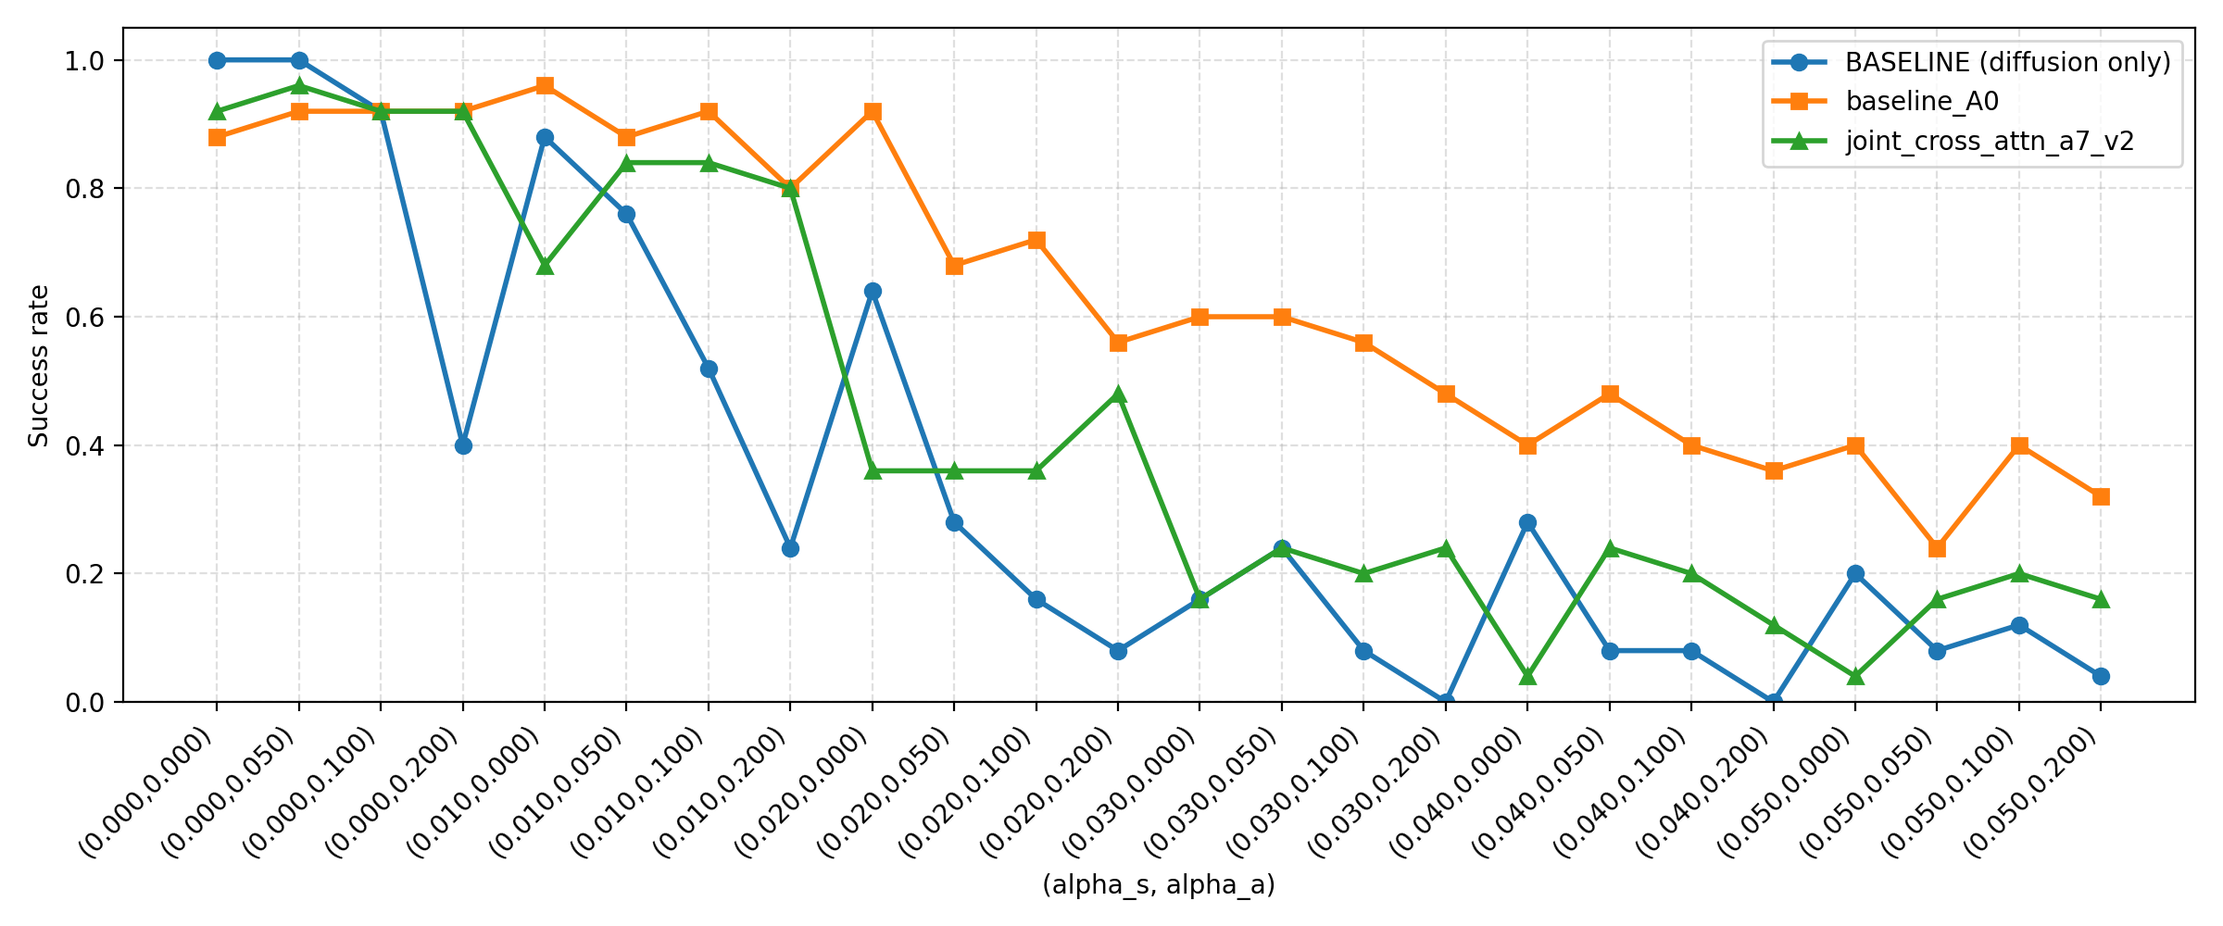
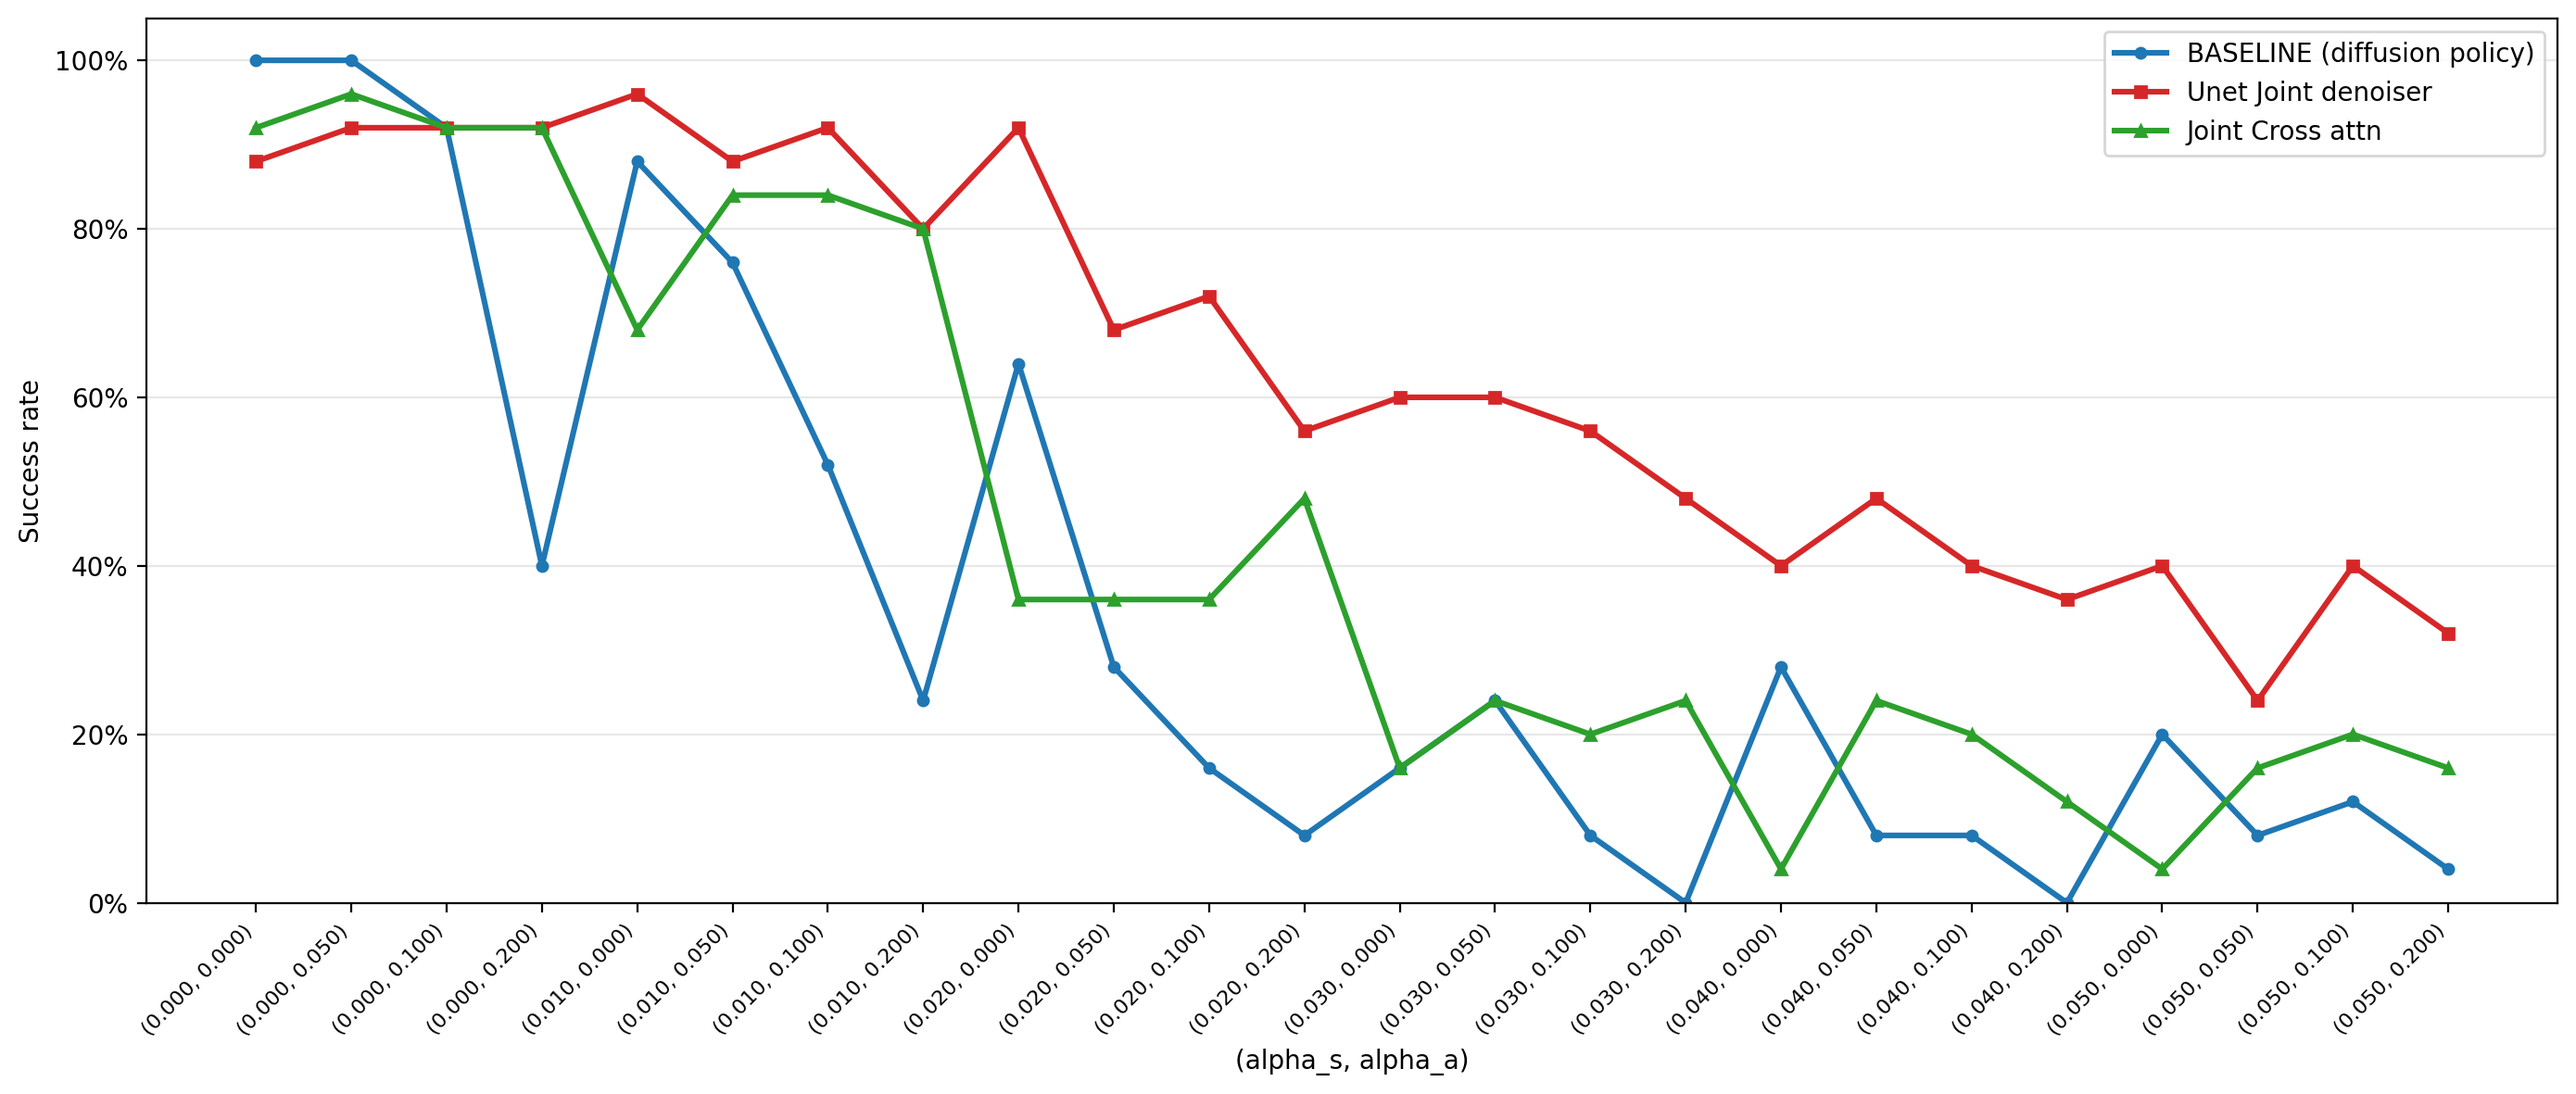
cross attention experiments done

diff --git a/evaluation/eval_diffusion_joint_denoiser_can.py b/evaluation/eval_diffusion_joint_denoiser_can.py
@@ -104,13 +104,24 @@ def _load_joint_model(ckpt_path: str, device):
     T = ckpt["diffusion_steps"]
     anchor_id = ckpt["anchor_id"]
 
-    model = JointUNet1D(
-        state_dim=state_dim,
-        action_dim=action_dim,
-        anchor_dim=ckpt.get("anchor_dim", 128),
-        time_emb_dim=ckpt.get("time_emb_dim", 128),
-        channel_sizes=ckpt.get("channel_sizes", (64, 128, 256)),
-    )
+    if ckpt.get("arch") == "cross_attn":
+        from diffusion.joint_cross_attn import CrossAttnJointDenoiser
+        model = CrossAttnJointDenoiser(
+            state_dim=state_dim,
+            action_dim=action_dim,
+            anchor_dim=ckpt.get("anchor_dim", 128),
+            d_model=ckpt.get("d_model", 192),
+            n_heads=ckpt.get("n_heads", 6),
+            n_layers=ckpt.get("n_layers", 4),
+        )
+    else:
+        model = JointUNet1D(
+            state_dim=state_dim,
+            action_dim=action_dim,
+            anchor_dim=ckpt.get("anchor_dim", 128),
+            time_emb_dim=ckpt.get("time_emb_dim", 128),
+            channel_sizes=ckpt.get("channel_sizes", (64, 128, 256)),
+        )
     model.load_state_dict(ckpt["model_state_dict"])
     model.eval().to(device)
 
@@ -197,6 +208,7 @@ def _run_rollout_with_denoiser(
 ) -> bool:
     import torch
     from diffusion.joint_unet import joint_denoise
+    from diffusion.joint_cross_attn import cross_attn_joint_denoise, CrossAttnJointDenoiser
 
     if sample_fn is None:
         sample_fn = sample_action_sequence
@@ -299,7 +311,12 @@ def _run_rollout_with_denoiser(
 
             with torch.no_grad():
                 anchor_emb = joint_anchor.compute(traj)
-                _, clean_a = joint_denoise(
+                _denoise_fn = (
+                    cross_attn_joint_denoise
+                    if isinstance(joint_model, CrossAttnJointDenoiser)
+                    else joint_denoise
+                )
+                _, clean_a = _denoise_fn(
                     joint_model,
                     s_t,
                     a_t,
@@ -480,7 +497,8 @@ def parse_args():
     parser.add_argument("--horizon", type=int, default=400, help="Episode horizon")
     parser.add_argument("--seed", type=int, default=0, help="Random seed")
     parser.add_argument("--t_start", type=int, default=None, help="Diffusion t_start parameter")
-    parser.add_argument("--joint_t_start", type=int, default=10, help="Joint denoiser reverse-diffusion start step (default 10)")
+    parser.add_argument("--joint_t_start", type=int, nargs="+", default=[10],
+                        help="Joint denoiser reverse-diffusion start step(s). Multiple values sweep t_start per cell (default: 10)")
     parser.add_argument("--output_csv", type=str, required=True, help="Output CSV path")
     return parser.parse_args()
 
@@ -550,7 +568,11 @@ def main():
         print(f"Warning: No joint denoiser models found — running baseline only.")
 
     results = {}
-    col_names = ["BASELINE (diffusion only)"] + list(joint_models.keys())
+    joint_t_starts = args.joint_t_start
+    col_names = (
+        ["BASELINE (diffusion only)"]
+        + [f"{k}_t{ts}" for k in sorted(joint_models.keys()) for ts in joint_t_starts]
+    )
 
     print("\n" + "=" * 90)
     print("EVALUATION")
@@ -573,36 +595,37 @@ def main():
                 diffusion_alphas, diffusion_alphas_bar,
                 env, args.horizon, args.seed, args.n_rollouts, args.t_start,
                 alpha_s, alpha_a, exec_horizon=args.exec_horizon,
-                joint_t_start=args.joint_t_start,
                 sample_fn=sample_fn,
             )
             results[key]["BASELINE (diffusion only)"] = sr_baseline
             print(f"success_rate={sr_baseline:.4f}")
 
             for model_key, model_path in sorted(joint_models.items()):
-                print(f"  {model_key}...", end=" ", flush=True)
                 try:
                     jm, ja, ja_alphas, ja_alphas_bar, ja_norm, ja_h, ja_s_dim, ja_a_dim, ja_obs_keys = \
                         _load_joint_model(model_path, device)
-
-                    sr = _eval_condition(
-                        diffusion_model, diffusion_checkpoint_dict,
-                        diffusion_alphas, diffusion_alphas_bar,
-                        env, args.horizon, args.seed, args.n_rollouts, args.t_start,
-                        alpha_s, alpha_a, exec_horizon=args.exec_horizon,
-                        joint_t_start=args.joint_t_start,
-                        joint_model=jm, joint_anchor=ja,
-                        joint_alphas=ja_alphas, joint_alphas_bar=ja_alphas_bar,
-                        joint_norm=ja_norm, joint_horizon=ja_h,
-                        joint_state_dim=ja_s_dim, joint_action_dim=ja_a_dim,
-                        joint_obs_keys=ja_obs_keys,
-                        sample_fn=sample_fn,
-                    )
-                    results[key][model_key] = sr
-                    print(f"success_rate={sr:.4f}")
+                    for ts in joint_t_starts:
+                        col_key = f"{model_key}_t{ts}"
+                        print(f"  {col_key}...", end=" ", flush=True)
+                        sr = _eval_condition(
+                            diffusion_model, diffusion_checkpoint_dict,
+                            diffusion_alphas, diffusion_alphas_bar,
+                            env, args.horizon, args.seed, args.n_rollouts, args.t_start,
+                            alpha_s, alpha_a, exec_horizon=args.exec_horizon,
+                            joint_t_start=ts,
+                            joint_model=jm, joint_anchor=ja,
+                            joint_alphas=ja_alphas, joint_alphas_bar=ja_alphas_bar,
+                            joint_norm=ja_norm, joint_horizon=ja_h,
+                            joint_state_dim=ja_s_dim, joint_action_dim=ja_a_dim,
+                            joint_obs_keys=ja_obs_keys,
+                            sample_fn=sample_fn,
+                        )
+                        results[key][col_key] = sr
+                        print(f"success_rate={sr:.4f}")
                 except Exception as e:
-                    print(f"ERROR: {e}")
-                    results[key][model_key] = None
+                    print(f"ERROR loading {model_key}: {e}")
+                    for ts in joint_t_starts:
+                        results[key][f"{model_key}_t{ts}"] = None
 
     os.makedirs(os.path.dirname(os.path.abspath(args.output_csv)), exist_ok=True)
     with open(args.output_csv, "w", newline="") as f:

diff --git a/results/lift/diffusion_joint_denoiser/regenerate_cross_attn_a7_v2_combined.py b/results/lift/diffusion_joint_denoiser/regenerate_cross_attn_a7_v2_combined.py
@@ -1,0 +1,83 @@
+import os
+import pandas as pd
+import matplotlib.pyplot as plt
+import matplotlib.ticker as mticker
+
+DATA_DIR = os.path.dirname(os.path.abspath(__file__))
+
+CSV_MAIN = os.path.join(DATA_DIR, "cross_attn_a7_v2.csv")
+CSV_QUICK = os.path.join(DATA_DIR, "quick_eval.csv")
+OUT_PNG = os.path.join(DATA_DIR, "cross_attn_a7_v2_combined_plot.png")
+
+
+def main():
+    a = pd.read_csv(CSV_MAIN)
+    b = pd.read_csv(CSV_QUICK)
+
+    # merge to ensure consistent ordering and presence of baseline_A0
+    merged = a.merge(
+        b[["alpha_s", "alpha_a", "baseline_A0"]],
+        on=["alpha_s", "alpha_a"],
+        how="left",
+    )
+
+    # Columns we will plot
+    col_baseline = "BASELINE (diffusion only)"
+    col_unet = "baseline_A0"
+    col_cross = "joint_cross_attn_a7_v2"
+
+    if col_cross not in merged.columns:
+        raise RuntimeError(f"Expected column missing: {col_cross}")
+
+    x_labels = [f"({row.alpha_s:.3f}, {row.alpha_a:.3f})" for _, row in merged.iterrows()]
+    x = range(len(merged))
+
+    plt.figure(figsize=(14, 6))
+
+    plt.plot(
+        x,
+        merged[col_baseline].values,
+        label="BASELINE (diffusion policy)",
+        color="#1f77b4",
+        linewidth=2.2,
+        marker="o",
+        markersize=4,
+    )
+
+    if col_unet in merged.columns:
+        plt.plot(
+            x,
+            merged[col_unet].values,
+            label="Unet Joint denoiser",
+            color="#d62728",
+            linewidth=2.2,
+            marker="s",
+            markersize=4,
+        )
+    else:
+        print(f"Warning: column {col_unet} not found; skipping Unet series")
+
+    plt.plot(
+        x,
+        merged[col_cross].values,
+        label="Joint Cross attn",
+        color="#2ca02c",
+        linewidth=2.2,
+        marker="^",
+        markersize=4,
+    )
+
+    plt.xticks(list(x), x_labels, rotation=45, ha="right", fontsize=8)
+    plt.xlabel("(alpha_s, alpha_a)")
+    plt.ylabel("Success rate")
+    plt.gca().yaxis.set_major_formatter(mticker.PercentFormatter(xmax=1.0))
+    plt.ylim(0.0, 1.05)
+    plt.grid(axis="y", alpha=0.3)
+    plt.legend()
+    plt.tight_layout()
+    plt.savefig(OUT_PNG, dpi=200, bbox_inches="tight")
+    print(f"Saved: {OUT_PNG}")
+
+
+if __name__ == "__main__":
+    main()

diff --git a/results/can/diffusion_joint_denoiser/plot_cross_attn_vs_unet_can.py b/results/can/diffusion_joint_denoiser/plot_cross_attn_vs_unet_can.py
@@ -1,0 +1,42 @@
+import os
+import pandas as pd
+import matplotlib.pyplot as plt
+import matplotlib.ticker as mticker
+
+DATA_DIR = os.path.dirname(os.path.abspath(__file__))
+CSV_PATH = os.path.join(DATA_DIR, "cross_attn_vs_unet_can.csv")
+OUT_PNG = os.path.join(DATA_DIR, "cross_attn_vs_unet_can_plot.png")
+
+
+def main():
+    df = pd.read_csv(CSV_PATH)
+    # Columns
+    col_x1 = 'alpha_s'
+    col_x2 = 'alpha_a'
+    col_baseline = 'BASELINE (diffusion only)'
+    col_unet = 'joint_all_three_a0_t5'
+    col_cross = 'joint_cross_attn_can_a0_aux_t5'
+
+    labels = [f"({row[col_x1]:.3f}, {row[col_x2]:.3f})" for _, row in df.iterrows()]
+    x = range(len(df))
+
+    plt.figure(figsize=(12, 6))
+
+    plt.plot(x, df[col_baseline].values, label='BASELINE (diffusion policy)', color='#1f77b4', marker='o')
+    plt.plot(x, df[col_unet].values, label='Unet Joint Denoiser', color='#d62728', marker='s')
+    plt.plot(x, df[col_cross].values, label='Joint cross attn', color='#2ca02c', marker='^')
+
+    plt.xticks(list(x), labels, rotation=45, ha='right', fontsize=8)
+    plt.xlabel('(alpha_s, alpha_a)')
+    plt.ylabel('Success rate')
+    plt.gca().yaxis.set_major_formatter(mticker.PercentFormatter(xmax=1.0))
+    plt.ylim(0.0, 1.05)
+    plt.grid(axis='y', alpha=0.3)
+    plt.legend()
+    plt.tight_layout()
+    plt.savefig(OUT_PNG, dpi=200, bbox_inches='tight')
+    print(f"Saved: {OUT_PNG}")
+
+
+if __name__ == '__main__':
+    main()
